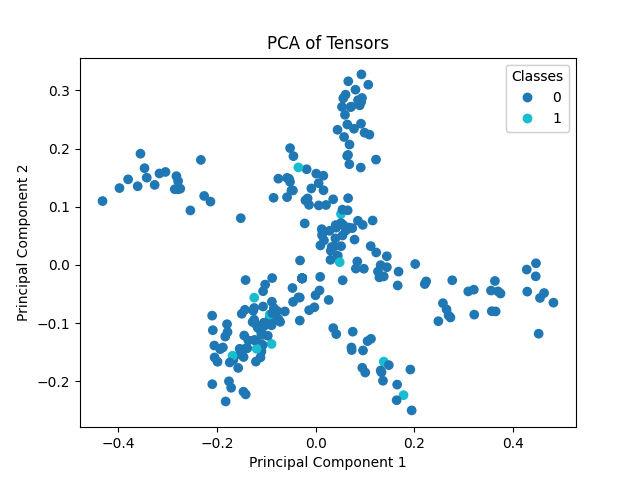
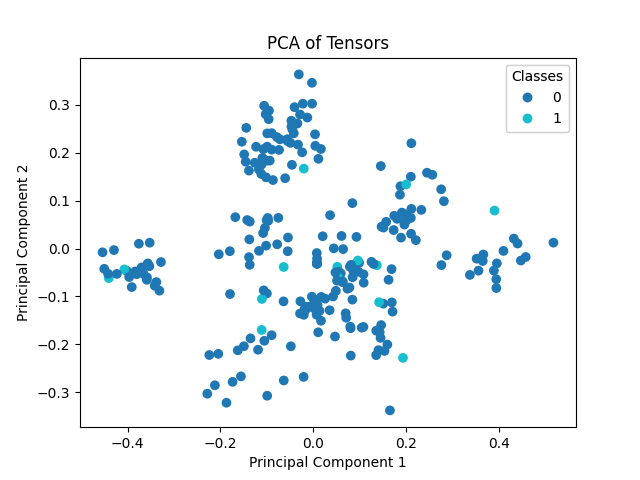
more plots! PCA per class now

diff --git a/aggregate_gradients.py b/aggregate_gradients.py
@@ -70,6 +70,23 @@ def aggregate_gradients_cosine(grads_list, labels, is_poisoned):
             c_weights = torch.softmax(cosine_similarities, dim=0)
             weights.append(c_weights)
 
+            pca = PCA(n_components=2)
+            pca_result = pca.fit_transform(torch.flatten(c_grads, start_dim=1).cpu())
+            fig, ax = plt.subplots()
+
+            # plot with colors representing classes
+            scatter = ax.scatter(pca_result[:, 0], pca_result[:, 1], c=is_poisoned[(labels==c).cpu()], cmap='tab10')
+            ax.set_xlabel('Principal Component 1')
+            ax.set_ylabel('Principal Component 2')
+            ax.set_title('PCA of Tensors')
+
+            # create legend
+            legend1 = ax.legend(*scatter.legend_elements(), title="Classes")
+            ax.add_artist(legend1)
+
+            plt.savefig(f'plots/{name}_{c}.png')
+        
+
         grads = torch.cat(grads)
         pca = PCA(n_components=2)
         pca_result = pca.fit_transform(torch.flatten(grads, start_dim=1).cpu())
